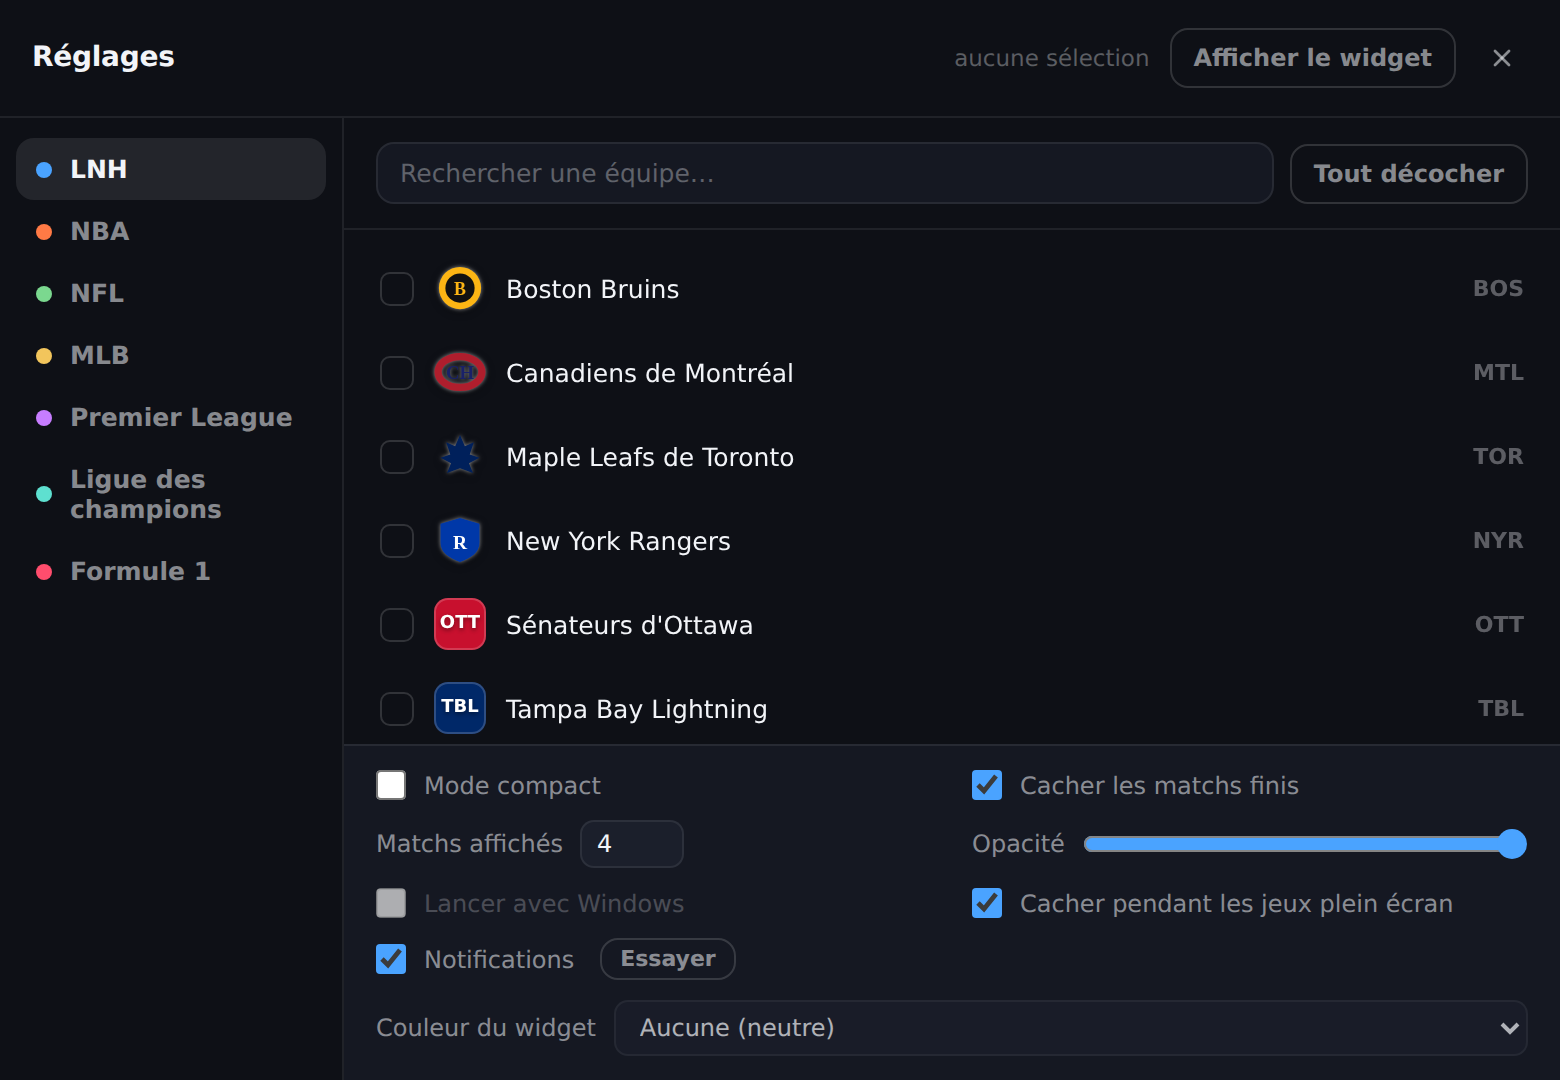
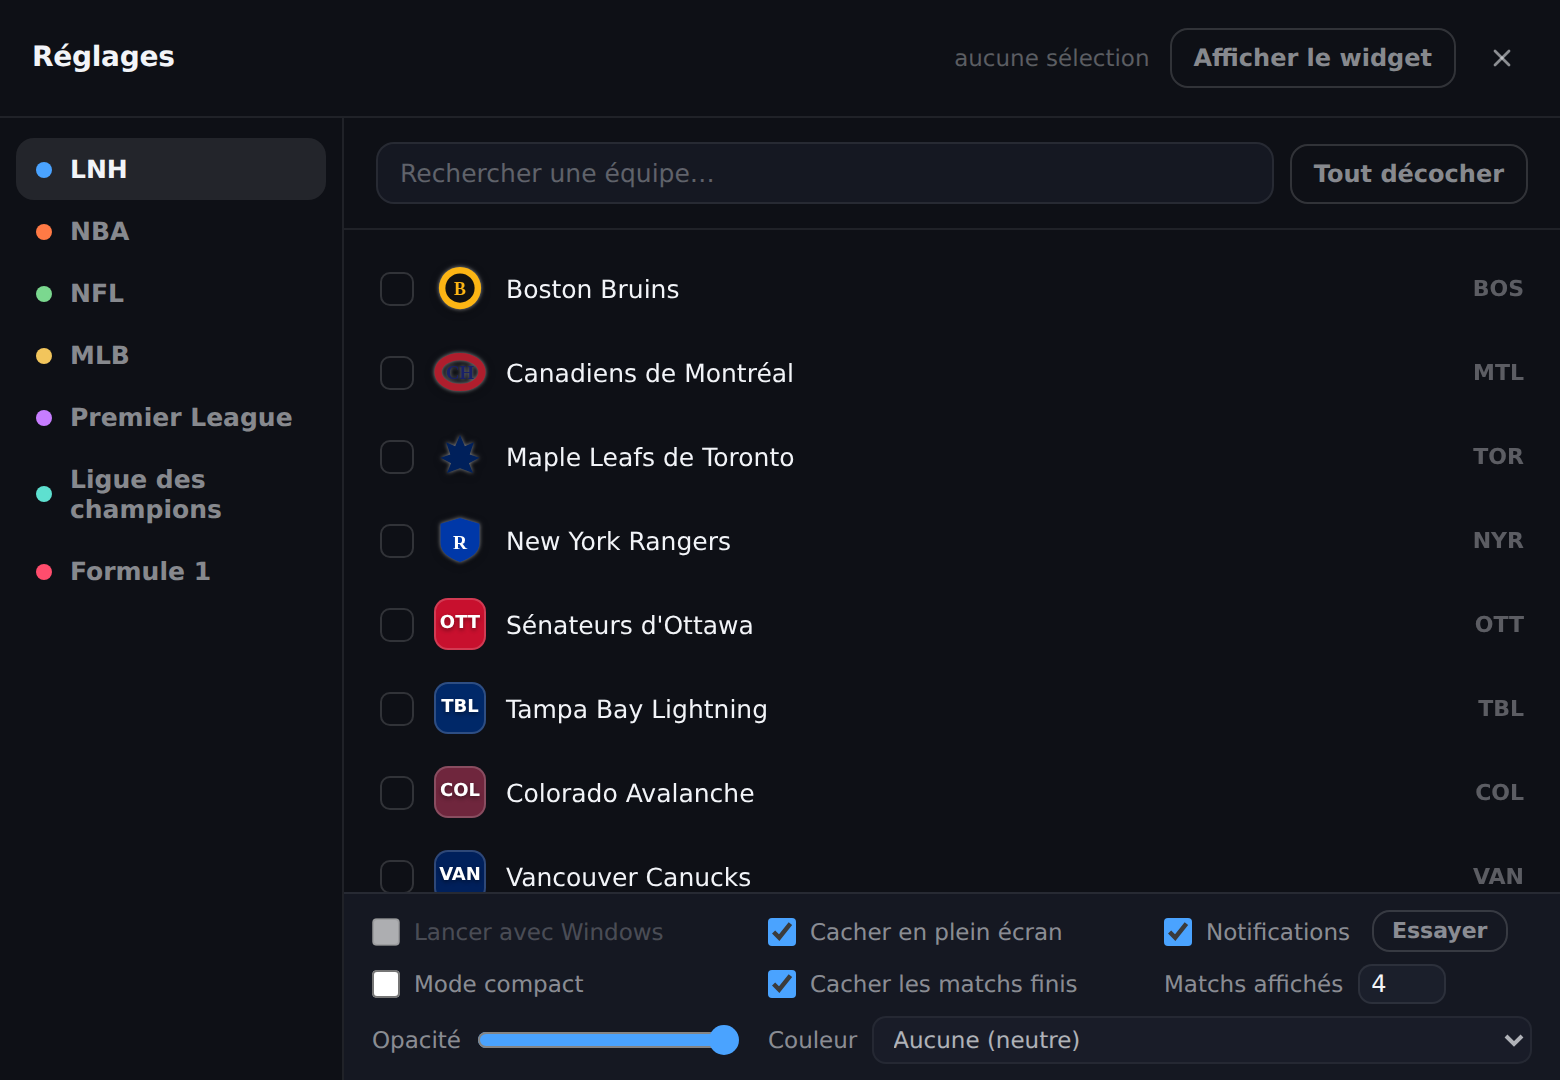
Réglages plus compacts, matchs limités aux 4 prochains jours (0.2.1)
Les options du bas occupaient une grande part de la fenêtre des réglages.
Elles passent sur trois colonnes serrées : 168 px → 94 px de haut à la
taille par défaut, et la liste des équipes gagne d'autant (257 → 331 px),
sans étiquette tronquée. « Cacher pendant les jeux plein écran » devient
« Cacher en plein écran », avec l'explication en infobulle.

Le widget n'affiche plus que les matchs des 4 prochains jours, jusqu'à
minuit du 4e jour. La recherche du prochain match s'arrête à cette limite,
et les matchs plus lointains déjà renvoyés par ESPN (semaine entière de la
NFL, prochain Grand Prix) sont écartés aussi.

Version 0.2.1 : première mise à jour distribuée par le système de mise à
jour automatique.

Claude-Session: https://claude.ai/code/session_01CgWNMYTr9ttcVZvyRxufwh

diff --git a/src/settings.html b/src/settings.html
@@ -30,6 +30,19 @@
       <div class="teams" id="teams"></div>
       <div class="options">
         <div class="opt">
+          <input type="checkbox" id="optAutostart" />
+          <label for="optAutostart">Lancer avec Windows</label>
+        </div>
+        <div class="opt" title="Cacher le widget pendant les jeux et vidéos en plein écran">
+          <input type="checkbox" id="optHideFullscreen" />
+          <label for="optHideFullscreen">Cacher en plein écran</label>
+        </div>
+        <div class="opt">
+          <input type="checkbox" id="optNotify" />
+          <label for="optNotify">Notifications</label>
+          <button class="ghost ghost--small" id="btnTryToast" type="button">Essayer</button>
+        </div>
+        <div class="opt">
           <input type="checkbox" id="optCompact" />
           <label for="optCompact">Mode compact</label>
         </div>
@@ -45,21 +58,8 @@
           <label for="optOpacity">Opacité</label>
           <input type="range" id="optOpacity" min="30" max="100" step="5" />
         </div>
-        <div class="opt">
-          <input type="checkbox" id="optAutostart" />
-          <label for="optAutostart">Lancer avec Windows</label>
-        </div>
-        <div class="opt">
-          <input type="checkbox" id="optHideFullscreen" />
-          <label for="optHideFullscreen">Cacher pendant les jeux plein écran</label>
-        </div>
-        <div class="opt">
-          <input type="checkbox" id="optNotify" />
-          <label for="optNotify">Notifications</label>
-          <button class="ghost ghost--small" id="btnTryToast" type="button">Essayer</button>
-        </div>
         <div class="opt opt--wide">
-          <label for="optTheme">Couleur du widget</label>
+          <label for="optTheme">Couleur</label>
           <select id="optTheme"></select>
         </div>
       </div>

diff --git a/src/widget.js b/src/widget.js
@@ -1,4 +1,4 @@
-import { fetchScoreboard, fetchNextGames, demoEvents } from './lib/api.js';
+import { fetchScoreboard, fetchNextGames, demoEvents, LOOKAHEAD_DAYS } from './lib/api.js';
 import { LEAGUES_BY_ID } from './lib/leagues.js';
 import { loadPrefs } from './lib/store.js';
 import { errText } from './lib/err.js';
@@ -244,6 +244,19 @@ function sortGames(a, b) {
   return (a.startsAt?.getTime() ?? 0) - (b.startsAt?.getTime() ?? 0);
 }
 
+/**
+ * Vrai pour un match à venir au-delà des 4 prochains jours (aujourd'hui
+ * compris, jusqu'à minuit du 4e jour). ESPN renvoie parfois plus loin : la
+ * semaine entière pour la NFL, le prochain Grand Prix pour la F1.
+ */
+function beyondHorizon(game) {
+  if (game.state !== 'pre' || !(game.startsAt instanceof Date) || isNaN(game.startsAt)) return false;
+  const cutoff = new Date();
+  cutoff.setHours(0, 0, 0, 0);
+  cutoff.setDate(cutoff.getDate() + LOOKAHEAD_DAYS + 1);
+  return game.startsAt >= cutoff;
+}
+
 function isStale(game) {
   if (!prefs.hideOldFinals || game.state !== 'post' || !game.startsAt) return false;
   return Date.now() - game.startsAt.getTime() > 6 * 3600 * 1000;
@@ -311,10 +324,10 @@ async function refresh() {
     return;
   }
 
-  const today = games.filter(keepGame).filter((g) => !isStale(g));
+  const today = games.filter(keepGame).filter((g) => !isStale(g) && !beyondHorizon(g));
   const upcoming = await nextGamesForIdleFavorites(today);
 
-  const all = [...today, ...upcoming];
+  const all = [...today, ...upcoming.filter((g) => !beyondHorizon(g))];
   notifyEvents(all);
 
   const visible = all.sort(sortGames).slice(0, prefs.maxGames);

diff --git a/src/settings.css b/src/settings.css
@@ -226,34 +226,37 @@ span.crest-sm {
 
 /* ---------- Options du bas ---------- */
 
+/* Trois colonnes serrées : les options tiennent sur trois lignes et laissent
+   la place à la liste des équipes. */
 .options {
   border-top: 1px solid var(--border);
-  padding: 12px 16px;
+  padding: 8px 14px;
   display: grid;
-  grid-template-columns: 1fr 1fr;
-  gap: 10px 20px;
+  grid-template-columns: repeat(3, minmax(0, 1fr));
+  gap: 6px 14px;
   flex-shrink: 0;
   background: var(--panel);
 }
 
-.opt { display: flex; align-items: center; gap: 9px; font-size: 12px; color: var(--text-muted); }
+.opt { display: flex; align-items: center; gap: 7px; font-size: 11.5px; color: var(--text-muted); min-width: 0; white-space: nowrap; }
 .opt label { cursor: pointer; }
 .opt input[type="number"] {
-  width: 52px; padding: 4px 7px;
+  width: 44px; padding: 2px 6px;
   font: inherit; font-size: 12px;
   color: var(--text); background: var(--panel-2);
   border: 1px solid var(--border); border-radius: 7px; outline: none;
 }
 .opt input[type="range"] { flex: 1; accent-color: var(--accent); }
-.opt input[type="checkbox"] { accent-color: var(--accent); width: 15px; height: 15px; cursor: pointer; }
+.opt input[type="checkbox"] { accent-color: var(--accent); width: 14px; height: 14px; cursor: pointer; flex-shrink: 0; }
 
-.opt--wide { grid-column: 1 / -1; }
+.opt--wide { grid-column: span 2; }
 
 .opt select {
   flex: 1;
-  padding: 5px 8px;
+  padding: 3px 6px;
   font: inherit;
-  font-size: 12px;
+  font-size: 11.5px;
+  min-width: 0;
   color: var(--text);
   background: var(--panel-2);
   border: 1px solid var(--border);

diff --git a/src/lib/api.js b/src/lib/api.js
@@ -317,7 +317,9 @@ export async function fetchScoreboard(leagueId) {
 
 // Calendrier des jours à venir : il change peu, inutile de le redemander à
 // chaque rafraîchissement du widget (toutes les 25 s pendant un match).
-const LOOKAHEAD_DAYS = 10;
+// Horizon d'affichage : le widget ne montre que les matchs des 4 prochains
+// jours. Au-delà, inutile de chercher.
+export const LOOKAHEAD_DAYS = 4;
 const DAY_TTL = 30 * 60 * 1000;
 const dayCache = new Map(); // "ligue:AAAAMMJJ" -> { at, events }
 
